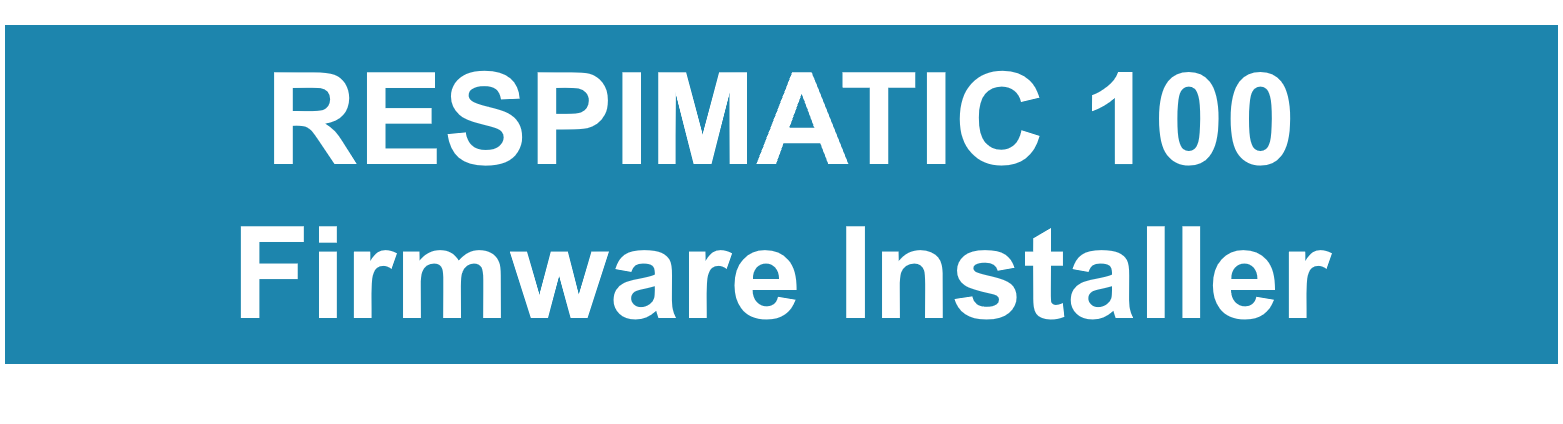
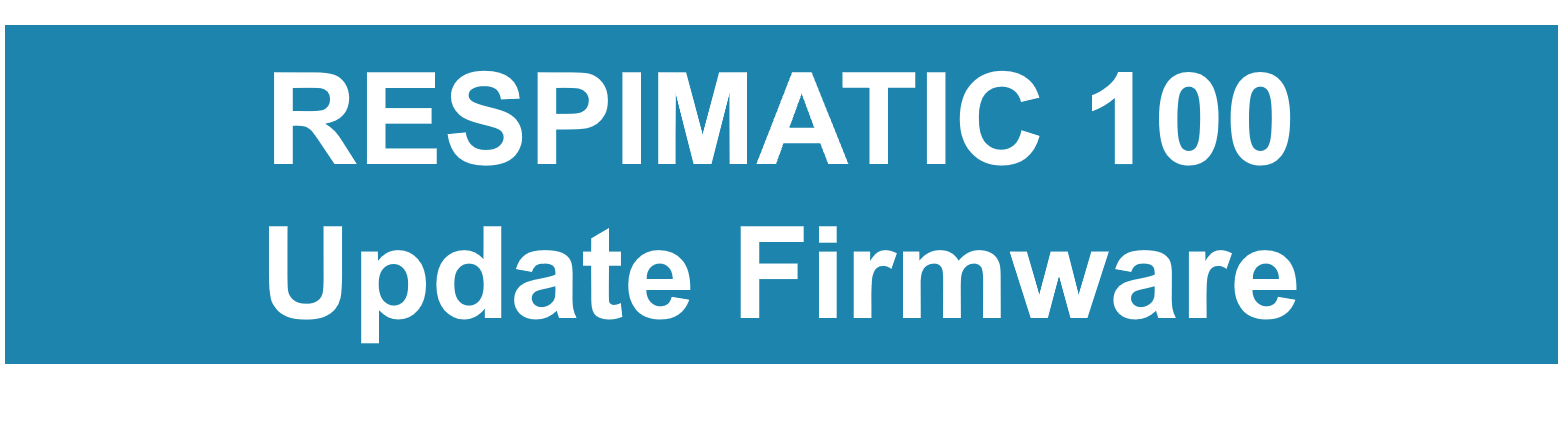
Title change

Changed region(s): [[0.1536, 0.5212, 0.8599, 0.8278]]

diff --git a/swInstaller/swInstaller.html b/swInstaller/swInstaller.html
@@ -8,7 +8,7 @@
 <html>
 
   <head>
-    <title>Respimatic 100 Firmware Installer</title>
+    <title>Respimatic 100 Update Firmware</title>
     <meta charset="UTF-8" />
     <meta name="mobile-web-app-capable" content="yes" />
     <meta name="apple-mobile-web-app-capable" content="yes" />
